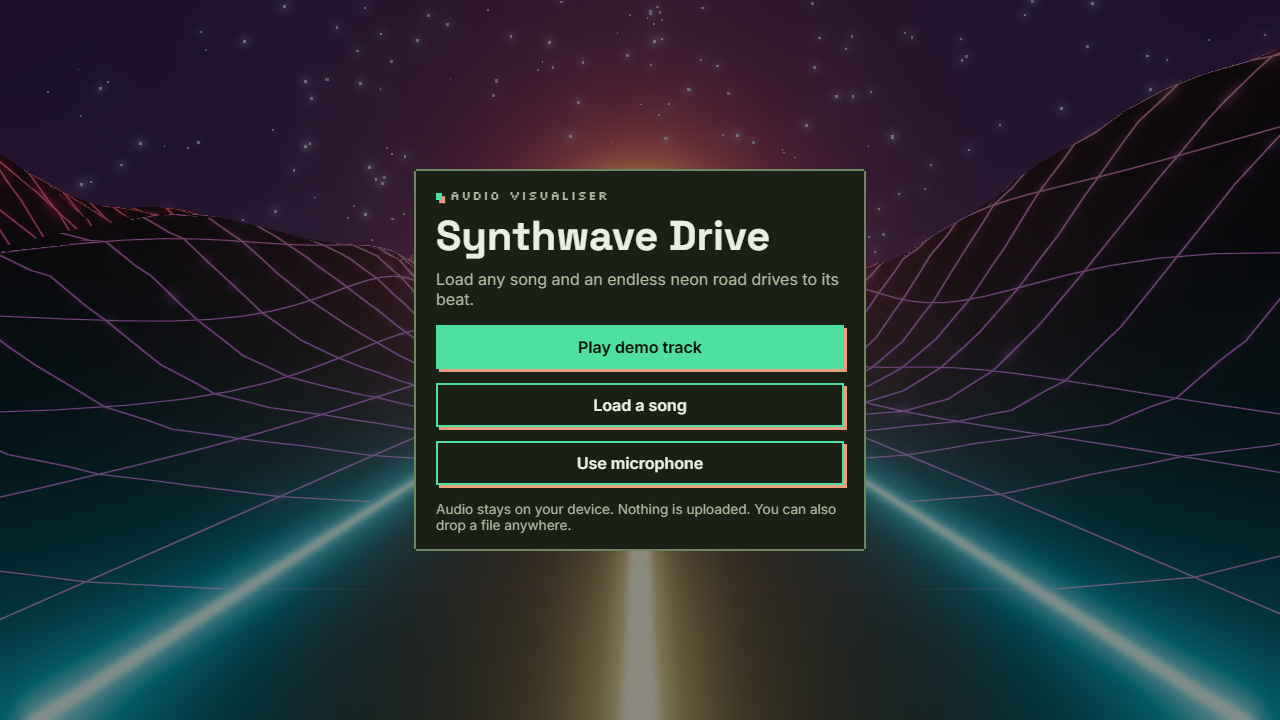
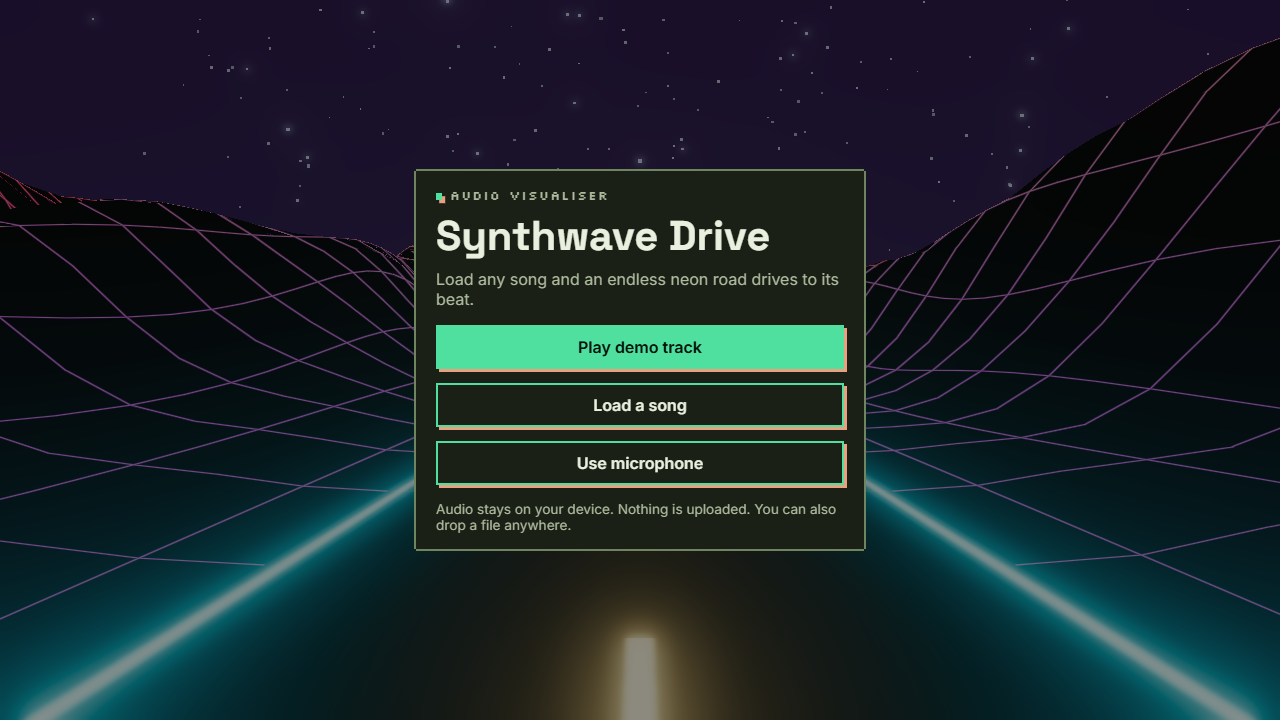
fix: cap bloom so beat and surge frames never white out

diff --git a/src/scene/look.ts b/src/scene/look.ts
@@ -21,7 +21,7 @@ export function createLook(reduced: boolean) {
       L.surge = s.surge * (r ? 0.4 : 1);
       L.speedBoost = s.surge * (r ? 0.08 : 0.4);
       L.starBoost = r ? 0 : s.surge * 3;
-      L.bloomBeat = r ? 0 : f.beat * 1.2 * (1 - s.surge * 0.7); // overdrive is a sustained accent, so beat flashes ease off to avoid white-out
+      L.bloomBeat = r ? 0 : f.beat * 0.3 * (1 - s.surge * 0.7); // overdrive is a sustained accent, so beat flashes ease off to avoid white-out
       L.bloomSurge = s.surge * (r ? 0.01 : 0.03);
       L.camBeat = r ? 0 : f.beat * 0.08;
       return L;

diff --git a/src/scene/index.ts b/src/scene/index.ts
@@ -59,7 +59,7 @@ export function createScene(canvas: HTMLCanvasElement, opts: SceneOpts = {}) {
     sunU.uBeat!.value = L.beat;
     sun.scale.setScalar(55 * (1 + L.beat * 0.06));
     su.uTime!.value = starTime; su.uHigh!.value = clamp01(f.high);
-    post.bloom.strength = (0.8 + L.bloomBeat + L.bloomSurge) * post.gain;
+    post.bloom.strength = Math.min(1.1, 0.7 + L.bloomBeat + L.bloomSurge) * post.gain; // hard cap: worst beat/surge frame must stay contrasty
     camera.position.y = 1.8 + L.camBeat;
     post.composer.render(dt);
   };

diff --git a/src/scene/post.ts b/src/scene/post.ts
@@ -7,7 +7,7 @@ import { OutputPass } from "three/addons/postprocessing/OutputPass.js";
 
 export function createPost(renderer: WebGLRenderer, scene: Scene, camera: PerspectiveCamera) {
   const composer = new EffectComposer(renderer);
-  const bloom = new UnrealBloomPass(new Vector2(256, 256), 0.8, 0.6, 0.15);
+  const bloom = new UnrealBloomPass(new Vector2(256, 256), 0.8, 0.5, 0.4);
   composer.addPass(new RenderPass(scene, camera));
   composer.addPass(bloom);
   composer.addPass(new OutputPass()); // applies renderer tone mapping + sRGB

diff --git a/src/scene/terrain.ts b/src/scene/terrain.ts
@@ -37,7 +37,7 @@ void main(){
     float far = smoothstep(20.0, 120.0, vDist);
     vec3 lc = mix(magenta, orange, clamp(vH/9.0,0.,1.)*.6 + uMid*.3);
     lc = mix(lc, cyan, smoothstep(30.0, 4.0, ax) * (.4 + uTilt*.25));
-    col = vec3(.03,.008,.06) + lc * g * (1.0 + uBeat*1.6*(1.0-uSurge*.5) + uSurge*.2) * (1.0 - far*.3);
+    col = vec3(.03,.008,.06) + lc * g * (1.0 + uBeat*0.9*(1.0-uSurge*.5) + uSurge*.1) * (1.0 - far*.3);
   }
   float f = smoothstep(40.0, 230.0, vDist);
   gl_FragColor = vec4(pow(mix(col, uFog, f), vec3(2.2)), 1.0);
